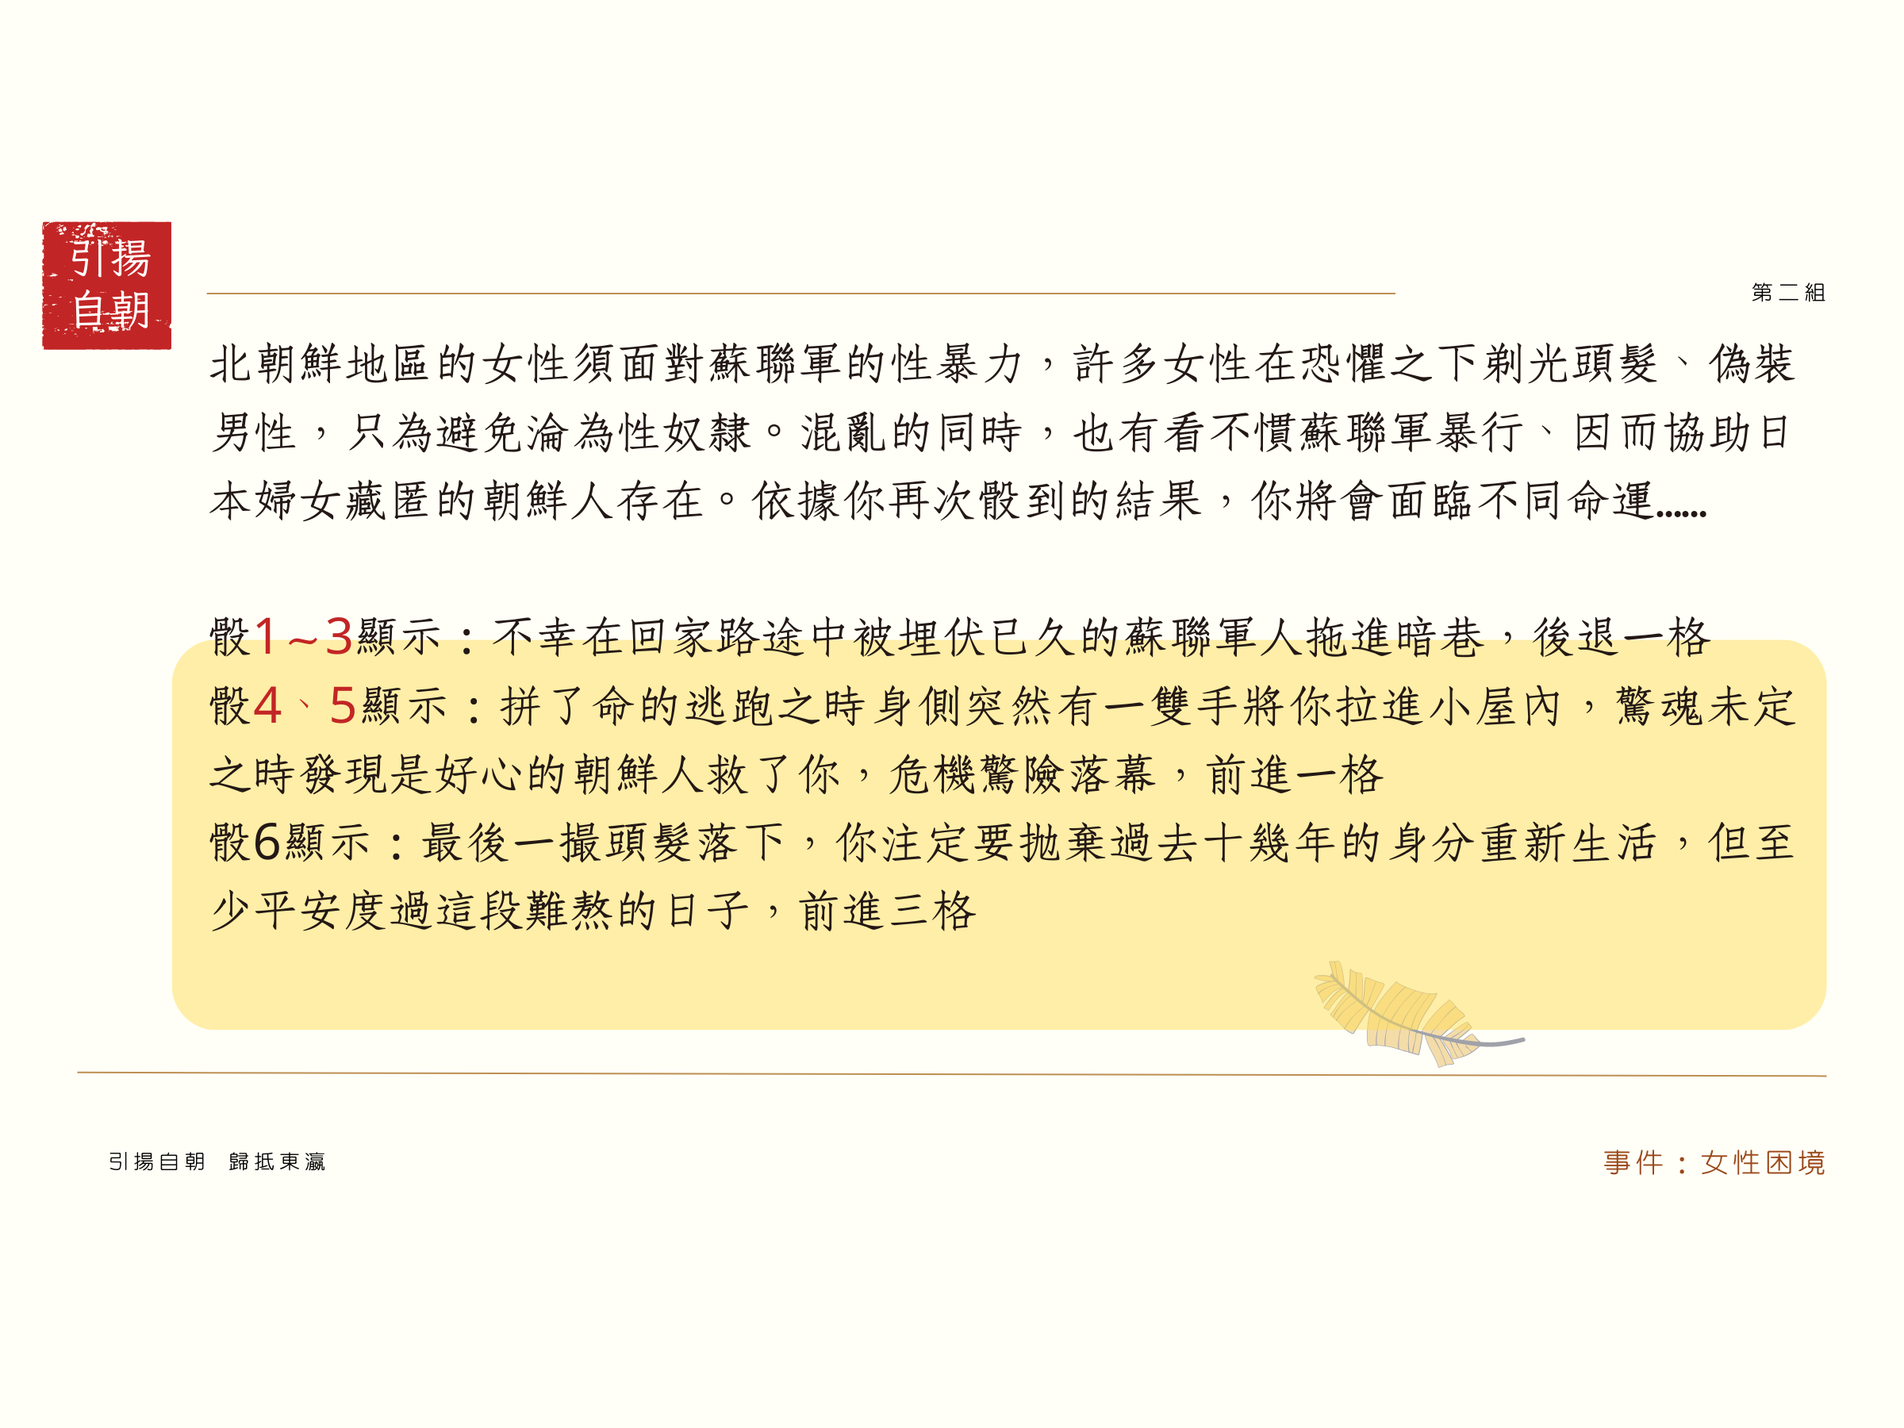
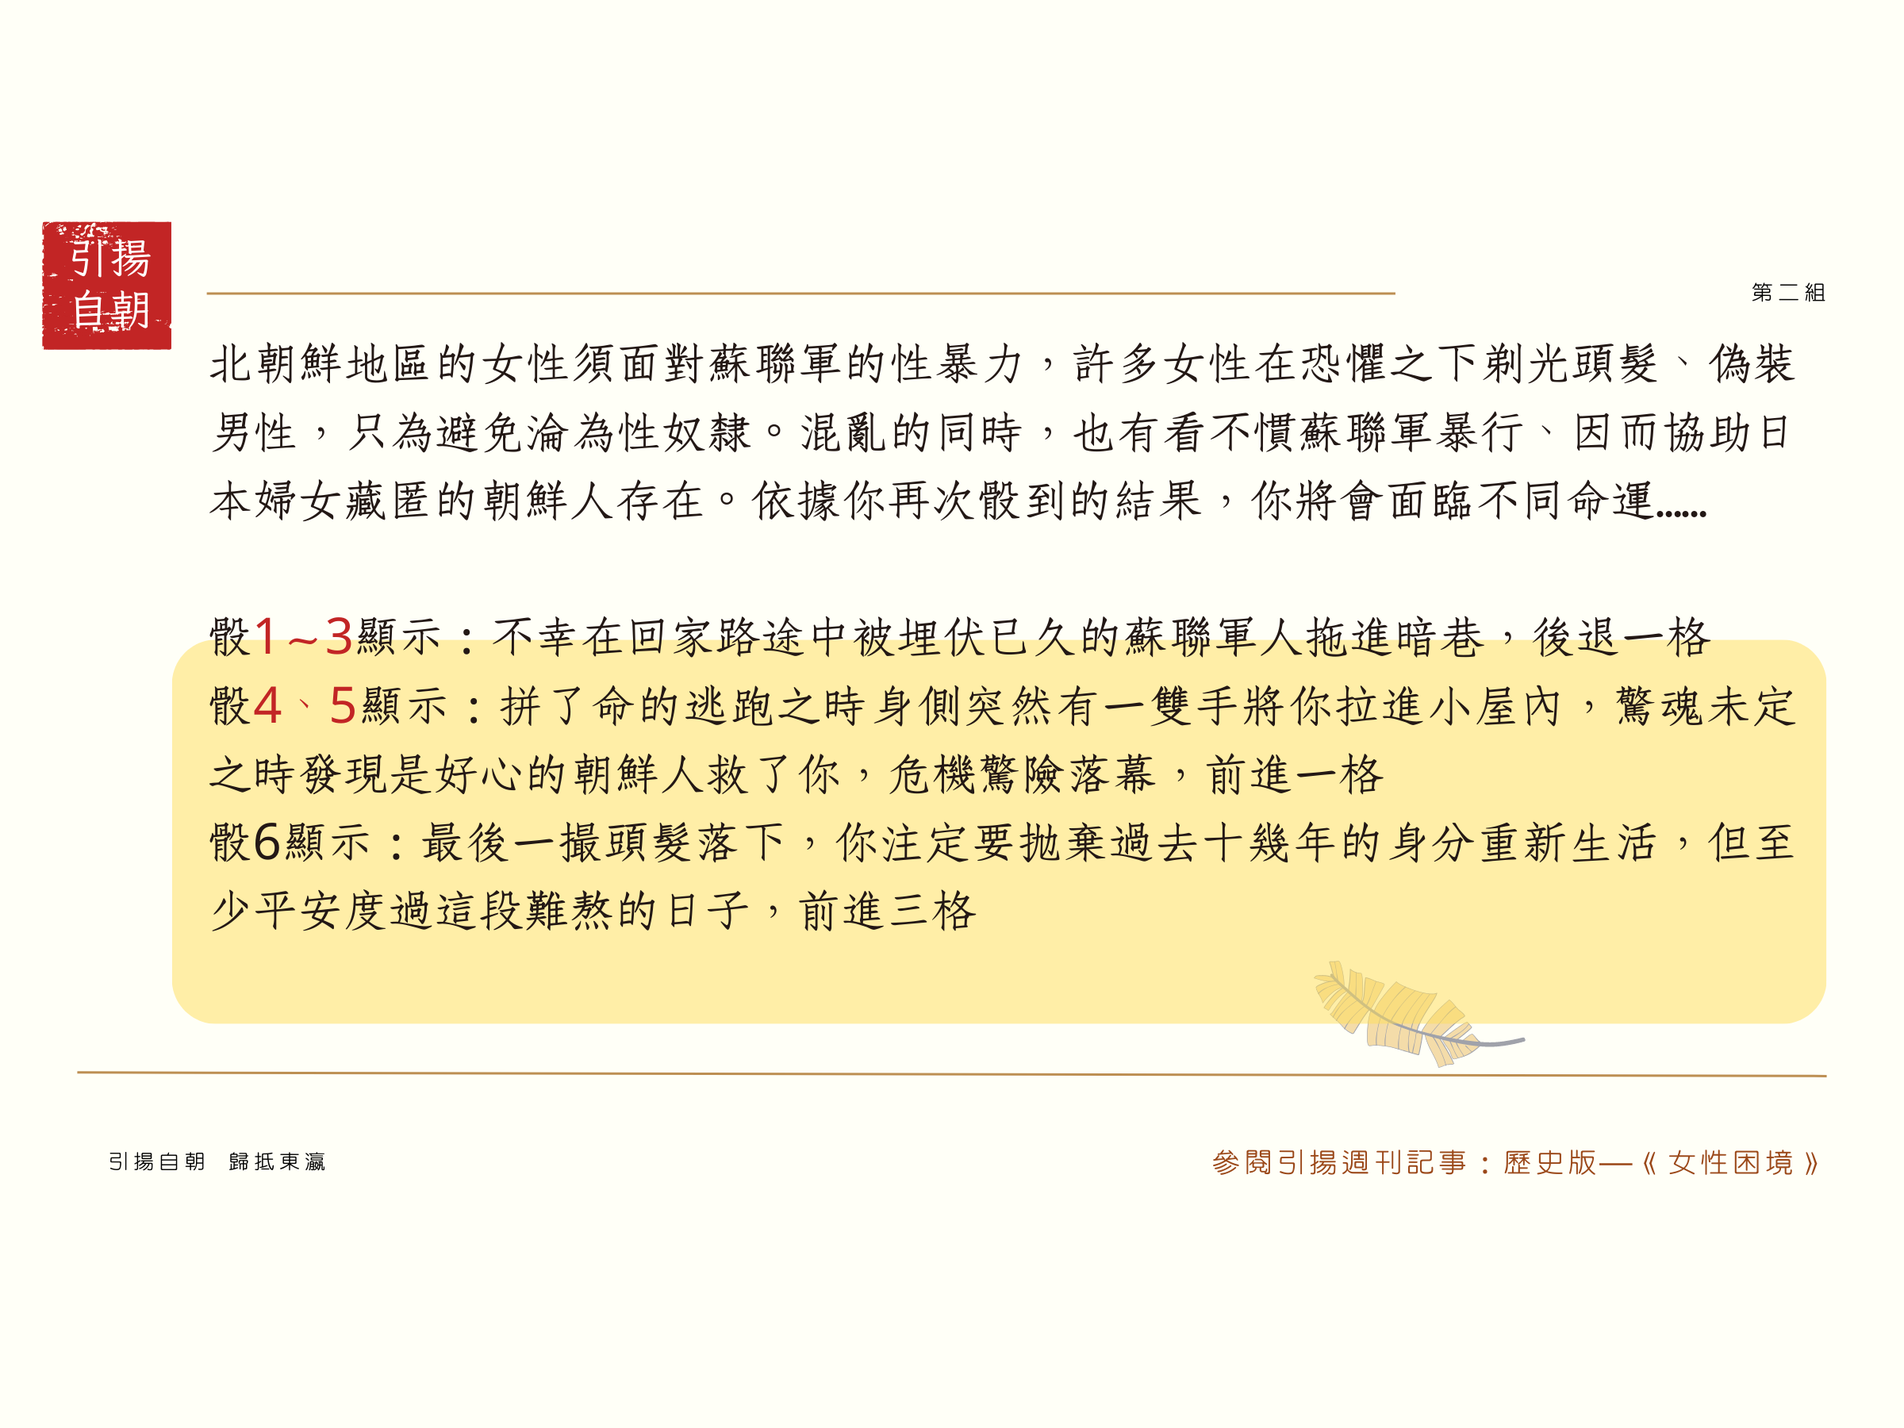
release v1.1

Changed region(s): [[0.0938, 0.7156, 0.9375, 0.7467], [0.625, 0.8089, 0.9688, 0.84]]

diff --git a/event_info_panel.py b/event_info_panel.py
@@ -3,6 +3,7 @@ from settings import *
 import random
 import button_tr
 import button
+import button_tr_p
 
 class Info_Panel:
     def __init__(self, tile_num, size=(window_width, window_height), 
@@ -11,27 +12,97 @@ class Info_Panel:
         self.surface = pygame.Surface(size,pygame.SRCALPHA)
         self.rect = self.surface.get_rect(topleft=position)
         self.surface.fill((255, 255, 255))
+        self.video_button = None
+        self.mag_button = None
+        self.mag_button1 = None
+        self.mag_button2 = None
+        self.mag_button_l = None
         if (tile_num == 1):
             self.background_image = pygame.image.load('./event_img/1.png')
             self.background_image = pygame.transform.smoothscale(self.background_image, (window_width, window_height))
+            self.video_button = button_tr.AnimatedButton(
+                rect=(100, 625, 185, 100),
+                text="",
+                font=pygame.font.SysFont(None, 36),
+                color_idle=(0, 0, 0),  # unused, but required
+                color_hover=(255, 255, 255),  # shown as semi-transparent white
+                color_click=(200, 200, 200)
+            )
         if (tile_num == 4):
             self.background_image = pygame.image.load('./event_img/4.png')
             self.background_image = pygame.transform.smoothscale(self.background_image, (window_width, window_height))
+            self.video_button = button_tr.AnimatedButton(
+                rect=(100, 625, 185, 100),
+                text="",
+                font=pygame.font.SysFont(None, 36),
+                color_idle=(0, 0, 0),  # unused, but required
+                color_hover=(255, 255, 255),  # shown as semi-transparent white
+                color_click=(200, 200, 200)
+            )
         if (tile_num == 5):
             self.background_image = pygame.image.load('./event_img/5.png')
             self.background_image = pygame.transform.smoothscale(self.background_image, (window_width, window_height))
+            self.mag_button_l = button_tr_p.AnimatedButton(
+                rect=(750, 715, 410, 35),
+                text="",
+                font=pygame.font.SysFont(None, 36),
+                color_idle=(0, 0, 0),  # unused, but required
+                color_hover=(200, 200, 200),  # shown as semi-transparent white
+                color_click=(150, 150, 150)
+            )
+
         if (tile_num == 6):
             self.background_image = pygame.image.load('./event_img/6.png')
             self.background_image = pygame.transform.smoothscale(self.background_image, (window_width, window_height))
+            self.video_button = button_tr.AnimatedButton(
+                rect=(100, 625, 185, 100),
+                text="",
+                font=pygame.font.SysFont(None, 36),
+                color_idle=(0, 0, 0),  # unused, but required
+                color_hover=(255, 255, 255),  # shown as semi-transparent white
+                color_click=(200, 200, 200)
+            )
+            self.mag_button = button.AnimatedButton(
+                rect=(0, 900-100, 200, 100),
+                text="週刊",
+                font=pygame.font.Font("./font/NotoSansJP_VariableFont_wght.ttf", 30),
+                color_idle  = (206, 196, 174),
+                color_hover = (230, 220, 200),  # lighter beige
+                color_click = (180, 170, 150) 
+            )
         if (tile_num == 7):
             self.background_image = pygame.image.load('./event_img/7.png')
             self.background_image = pygame.transform.smoothscale(self.background_image, (window_width, window_height))
+            self.mag_button_l = button_tr_p.AnimatedButton(
+                rect=(675, 715, 485, 35),
+                text="",
+                font=pygame.font.SysFont(None, 36),
+                color_idle=(0, 0, 0),  # unused, but required
+                color_hover=(200, 200, 200),  # shown as semi-transparent white
+                color_click=(150, 150, 150)
+            )
         if (tile_num == 9):
             self.background_image = pygame.image.load('./event_img/9.png')
             self.background_image = pygame.transform.smoothscale(self.background_image, (window_width, window_height))
         if (tile_num == 12):
             self.background_image = pygame.image.load('./event_img/12.png')
             self.background_image = pygame.transform.smoothscale(self.background_image, (window_width, window_height))
+            self.video_button = button_tr.AnimatedButton(
+                rect=(100, 625, 185, 100),
+                text="",
+                font=pygame.font.SysFont(None, 36),
+                color_idle=(0, 0, 0),  # unused, but required
+                color_hover=(255, 255, 255),  # shown as semi-transparent white
+                color_click=(200, 200, 200)
+            )
+            self.mag_button = button.AnimatedButton(
+                rect=(0, 900-100, 200, 100),
+                text="週刊",
+                font=pygame.font.Font("./font/NotoSansJP_VariableFont_wght.ttf", 30),
+                color_idle  = (206, 196, 174),
+                color_hover = (230, 220, 200),  # lighter beige
+                color_click = (180, 170, 150) 
+            )
         if (tile_num == 14):
             self.background_image = pygame.image.load('./event_img/14.png')
             self.background_image = pygame.transform.smoothscale(self.background_image, (window_width, window_height))
@@ -41,9 +112,41 @@ class Info_Panel:
         if (tile_num == 21):
             self.background_image = pygame.image.load('./event_img/21.png')
             self.background_image = pygame.transform.smoothscale(self.background_image, (window_width, window_height))
+            self.video_button = button_tr.AnimatedButton(
+                rect=(100, 625, 185, 100),
+                text="",
+                font=pygame.font.SysFont(None, 36),
+                color_idle=(0, 0, 0),  # unused, but required
+                color_hover=(255, 255, 255),  # shown as semi-transparent white
+                color_click=(200, 200, 200)
+            )
+            self.mag_button1 = button.AnimatedButton(
+                rect=(0, 900-100, 200, 100),
+                text="週刊一",
+                font=pygame.font.Font("./font/NotoSansJP_VariableFont_wght.ttf", 30),
+                color_idle  = (206, 196, 174),
+                color_hover = (230, 220, 200),  # lighter beige
+                color_click = (180, 170, 150) 
+            )
+            self.mag_button2 = button.AnimatedButton(
+                rect=(205, 900-100, 200, 100),
+                text="週刊二",
+                font=pygame.font.Font("./font/NotoSansJP_VariableFont_wght.ttf", 30),
+                color_idle  = (206, 196, 174),
+                color_hover = (230, 220, 200),  # lighter beige
+                color_click = (180, 170, 150) 
+            )
         if (tile_num == 24):
             self.background_image = pygame.image.load('./event_img/24.png')
             self.background_image = pygame.transform.smoothscale(self.background_image, (window_width, window_height))
+            self.video_button = button_tr.AnimatedButton(
+                rect=(100, 625, 185, 100),
+                text="",
+                font=pygame.font.SysFont(None, 36),
+                color_idle=(0, 0, 0),  # unused, but required
+                color_hover=(255, 255, 255),  # shown as semi-transparent white
+                color_click=(200, 200, 200)
+            )
 
             
         self.font = pygame.font.Font('font/SunnyspellsRegular.otf', 50)
@@ -70,4 +173,23 @@ class Info_Panel:
         #self.surface.fill((255, 255, 255, 128),rect=pygame.Rect(0, 0, 200, 200))
         
         self.button.draw(self.surface)
+        
+        if (self.video_button is not None):
+            self.video_button.update(mouse_pos, mouse_pressed)
+            self.video_button.draw(self.surface)
+        if (self.mag_button is not None):
+            self.mag_button.update(mouse_pos, mouse_pressed,self.mag_button.text)
+            self.mag_button.draw(self.surface)
+        
+        if (self.mag_button1 is not None):
+            self.mag_button1.update(mouse_pos, mouse_pressed,self.mag_button1.text)
+            self.mag_button1.draw(self.surface)
+
+        if (self.mag_button2 is not None):
+            self.mag_button2.update(mouse_pos, mouse_pressed,self.mag_button2.text)
+            self.mag_button2.draw(self.surface)
+        
+        if (self.mag_button_l is not None):
+            self.mag_button_l.update(mouse_pos, mouse_pressed)
+            self.mag_button_l.draw(self.surface)
         screen.blit(self.surface, self.rect.topleft)

diff --git a/event.py b/event.py
@@ -10,7 +10,6 @@ def event_init(tile_num):
 
     if tile_num == 1:
         print("Video [Link]")
-        webbrowser.open("https://drive.google.com/file/d/1FE-ANme8tCisRsK4FK_mP3BAJPznVkbM/view?usp=drive_link")
         info_panel = event_info_panel.Info_Panel(tile_num)
         return info_panel,tile_num
     if tile_num == 2:
@@ -21,7 +20,6 @@ def event_init(tile_num):
         return quiz_panle,tile_num
     if tile_num == 4:
         print("Video [Link]")
-        webbrowser.open("https://drive.google.com/file/d/1yKGGTZHWZT6KPwUzwAlLKUbNdAp-yfMP/view?usp=drive_link")
         info_panel = event_info_panel.Info_Panel(tile_num)
         return info_panel,tile_num
     if tile_num == 5:
@@ -29,7 +27,6 @@ def event_init(tile_num):
         return info_panel,tile_num
     if tile_num == 6:
         print("Video [Link]")
-        webbrowser.open("https://drive.google.com/file/d/11KUxgQPgjNw0nz_t-Gf9QjGDmPpiiMbS/view?usp=drive_link")
         info_panel = event_info_panel.Info_Panel(tile_num)
         return info_panel,tile_num
     if tile_num == 7:
@@ -49,7 +46,6 @@ def event_init(tile_num):
         return quiz_panle,tile_num
     if tile_num == 12:
         print("Video [Link]")
-        webbrowser.open("https://drive.google.com/file/d/1BFVaO0-xFX9jPlfakrr5Un9ImoFHoNHr/view?usp=drive_link")
         info_panel = event_info_panel.Info_Panel(tile_num)
         return info_panel,tile_num
     if tile_num == 13:
@@ -77,7 +73,6 @@ def event_init(tile_num):
         return quiz_panle,tile_num
     if tile_num == 21:
         print("Video [Link]")
-        webbrowser.open("https://drive.google.com/file/d/19aCwEM8Tv_BCIhFCYphC-VB1fKA7Ou64/view?usp=drive_link")
         info_panel = event_info_panel.Info_Panel(tile_num)
         return info_panel,tile_num
     if tile_num == 22:
@@ -88,7 +83,6 @@ def event_init(tile_num):
         return pages_panel,tile_num
     if tile_num == 24:
         print("Video [Link]")
-        webbrowser.open("https://drive.google.com/file/d/1-0bIvuCUyUIBxQ-KscXBQOAa4XMjJpsx/view?usp=drive_link")
         info_panel = event_info_panel.Info_Panel(tile_num)
         return info_panel,tile_num
     else :return None,100
@@ -97,6 +91,8 @@ async def event_run(tile_num,panel,screen,mouse_pos, mouse_pressed,event_list):
 
     if (tile_num == 1):
         panel.frame_update(screen,mouse_pos, mouse_pressed)
+        if (panel.video_button.is_clicked(mouse_pos,event_list)):
+            webbrowser.open(settings.video_link_1)
     if (tile_num == 2):
         panel.frame_update(screen,mouse_pos, mouse_pressed)
     if (tile_num == 3):
@@ -124,12 +120,22 @@ async def event_run(tile_num,panel,screen,mouse_pos, mouse_pressed,event_list):
     
     if (tile_num == 4):
         panel.frame_update(screen,mouse_pos, mouse_pressed)
+        if (panel.video_button.is_clicked(mouse_pos,event_list)):
+            webbrowser.open(settings.video_link_4)
     if (tile_num == 5):
         panel.frame_update(screen,mouse_pos, mouse_pressed)
+        if (panel.mag_button_l.is_clicked(mouse_pos,event_list)):
+            webbrowser.open(settings.magazine_link_5)
     if (tile_num == 6):
         panel.frame_update(screen,mouse_pos, mouse_pressed)
+        if (panel.video_button.is_clicked(mouse_pos,event_list)):
+            webbrowser.open(settings.video_link_6)
+        if (panel.mag_button.is_clicked(mouse_pos,event_list)):
+            webbrowser.open(settings.magazine_link_6)
     if (tile_num == 7):
         panel.frame_update(screen,mouse_pos, mouse_pressed)
+        if (panel.mag_button_l.is_clicked(mouse_pos,event_list)):
+            webbrowser.open(settings.magazine_link_7)
     if (tile_num == 8):
         panel.frame_update(screen,mouse_pos, mouse_pressed)
         for event in event_list:
@@ -146,6 +152,8 @@ async def event_run(tile_num,panel,screen,mouse_pos, mouse_pressed,event_list):
                 await panel.roll_dice(screen)
             elif panel.dice_button.is_clicked(mouse_pos, event_list):
                 await panel.roll_dice(screen)
+        if (panel.mag_button_l.is_clicked(mouse_pos,event_list)):
+            webbrowser.open(settings.magazine_link_10)
     if (tile_num == 11):
         panel.frame_update(screen,mouse_pos, mouse_pressed)
         #quiz
@@ -171,6 +179,10 @@ async def event_run(tile_num,panel,screen,mouse_pos, mouse_pressed,event_list):
 
     if (tile_num == 12):
         panel.frame_update(screen,mouse_pos, mouse_pressed)
+        if (panel.video_button.is_clicked(mouse_pos,event_list)):
+            webbrowser.open(settings.video_link_12)
+        if (panel.mag_button.is_clicked(mouse_pos,event_list)):
+            webbrowser.open(settings.magazine_link_12)
     if (tile_num == 13):
         panel.frame_update(screen,mouse_pos, mouse_pressed)
     if (tile_num == 14):
@@ -232,6 +244,12 @@ async def event_run(tile_num,panel,screen,mouse_pos, mouse_pressed,event_list):
                             panel.buttonQ[j].update_ans(False,False)
     if (tile_num == 21):
         panel.frame_update(screen,mouse_pos, mouse_pressed)
+        if (panel.video_button.is_clicked(mouse_pos,event_list)):
+            webbrowser.open(settings.video_link_21)
+        if (panel.mag_button1.is_clicked(mouse_pos,event_list)):
+            webbrowser.open(settings.magazine_link_21_1)
+        if (panel.mag_button2.is_clicked(mouse_pos,event_list)):
+            webbrowser.open(settings.magazine_link_21_2)
     if (tile_num == 22):
         panel.frame_update(screen,mouse_pos, mouse_pressed)
         if (panel.button_link.is_clicked(mouse_pos, event_list)):
@@ -240,6 +258,8 @@ async def event_run(tile_num,panel,screen,mouse_pos, mouse_pressed,event_list):
         panel.frame_update(screen,mouse_pos, mouse_pressed)
     if (tile_num == 24):
         panel.frame_update(screen,mouse_pos, mouse_pressed)
+        if (panel.video_button.is_clicked(mouse_pos,event_list)):
+            webbrowser.open(settings.video_link_24)
                             
 def event_end(tile_num,player,panel):
 

diff --git a/event_dice_panel.py b/event_dice_panel.py
@@ -4,6 +4,7 @@ import random
 import button_tr
 import button
 import asyncio
+import button_tr_p
 
 pos_dice = (550,720)
 pos_message = (50,800)
@@ -14,13 +15,21 @@ class Dice_Panel:
         self.surface = pygame.Surface(size,pygame.SRCALPHA)
         self.rect = self.surface.get_rect(topleft=position)
         self.surface.fill((255, 255, 255))
+        self.mag_button_l = None
         if (tile_num == 8):
             self.background_image = pygame.image.load('./event_img/8.png')
             self.background_image = pygame.transform.smoothscale(self.background_image, (window_width, window_height))
         if (tile_num == 10):
             self.background_image = pygame.image.load('./event_img/10.png')
             self.background_image = pygame.transform.smoothscale(self.background_image, (window_width, window_height))
-        
+            self.mag_button_l = button_tr_p.AnimatedButton(
+                rect=(750, 715, 410, 35),
+                text="",
+                font=pygame.font.SysFont(None, 36),
+                color_idle=(0, 0, 0),  # unused, but required
+                color_hover=(200, 200, 200),  # shown as semi-transparent white
+                color_click=(150, 150, 150)
+            )
         
         self.font = pygame.font.Font('font/SunnyspellsRegular.otf', 50)
         self.roll_message_rolling = self.font.render("Dice Rolling...", True, (206, 196, 174))
@@ -83,6 +92,9 @@ class Dice_Panel:
         else:
             self.roll_message_val = self.font.render("Click Dice to Roll", True, (206, 196, 174))
             self.surface.blit(self.roll_message_val, pos_message)
+        if (self.mag_button_l is not None):
+            self.mag_button_l.update(mouse_pos, mouse_pressed)
+            self.mag_button_l.draw(self.surface)
         self.button.draw(self.surface)
         screen.blit(self.surface, self.rect.topleft)
     

diff --git a/settings.py b/settings.py
@@ -40,3 +40,18 @@ magazine_link_m_v1 = "https://mozilla.github.io/pdf.js/web/viewer.html?file=http
 magazine_link_m_v2 = "https://mozilla.github.io/pdf.js/web/viewer.html?file=https://jre235series.github.io/NTU_East_Asia/%E5%BC%95%E6%8F%9A%E5%91%A8%E5%88%8A.pdf#page=4"
 
 magazine_link_m_p1 = "https://mozilla.github.io/pdf.js/web/viewer.html?file=https://jre235series.github.io/NTU_East_Asia/%E5%BC%95%E6%8F%9A%E5%91%A8%E5%88%8A.pdf#page=6"
+
+magazine_link_5 = magazine_link_m + "#page=11"
+magazine_link_6 = magazine_link_m + "#page=13"
+magazine_link_7 = magazine_link_m + "#page=11"
+magazine_link_10 = magazine_link_m + "#page=13"
+magazine_link_12 = magazine_link_m + "#page=12"
+magazine_link_21_1 = magazine_link_m + "#page=10"
+magazine_link_21_2 = magazine_link_m + "#page=8"
+
+video_link_1 = "https://drive.google.com/file/d/1FE-ANme8tCisRsK4FK_mP3BAJPznVkbM/view?usp=drive_link"
+video_link_4 = "https://drive.google.com/file/d/1yKGGTZHWZT6KPwUzwAlLKUbNdAp-yfMP/view?usp=drive_link"
+video_link_6 = "https://drive.google.com/file/d/11KUxgQPgjNw0nz_t-Gf9QjGDmPpiiMbS/view?usp=drive_link"
+video_link_12 = "https://drive.google.com/file/d/1BFVaO0-xFX9jPlfakrr5Un9ImoFHoNHr/view?usp=drive_link"
+video_link_21 = "https://drive.google.com/file/d/19aCwEM8Tv_BCIhFCYphC-VB1fKA7Ou64/view?usp=drive_link"
+video_link_24 = "https://drive.google.com/file/d/1-0bIvuCUyUIBxQ-KscXBQOAa4XMjJpsx/view?usp=drive_link"
